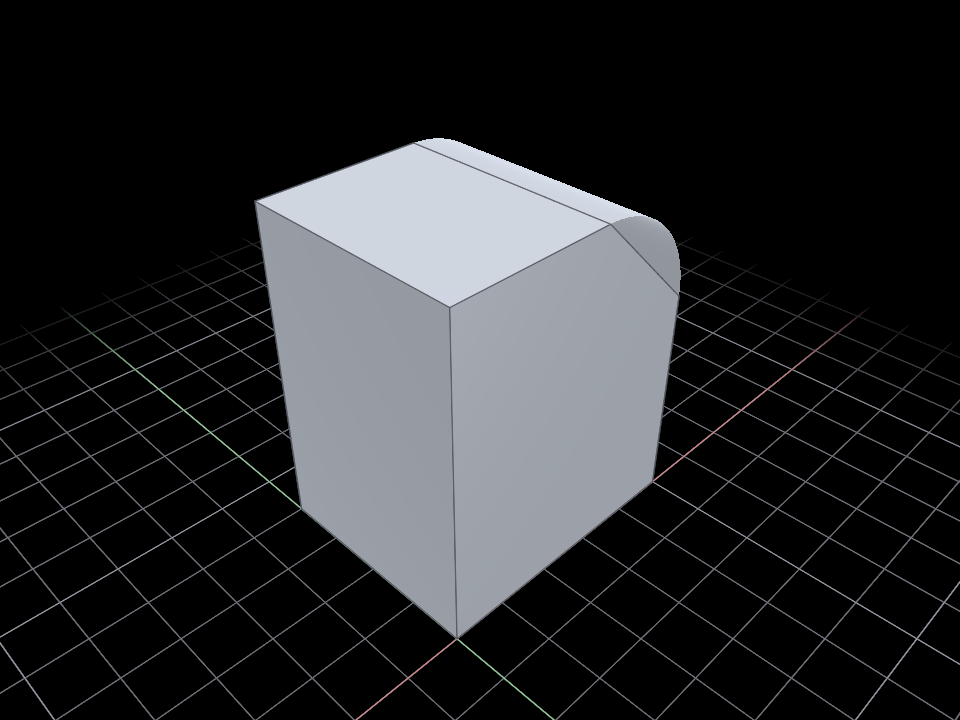
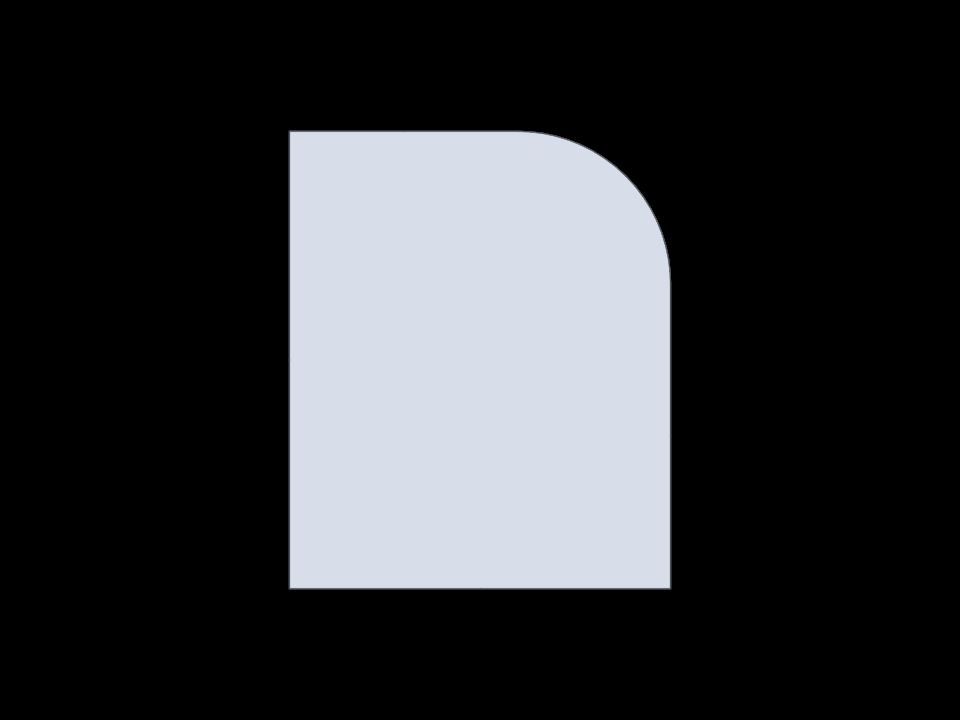
Keep Z-up box fillets circular at their end caps
Route a single orthogonal-prism edge through an exact rounded cross-section extrusion instead of the generic chord-capped fallback. Add the SourceCAD exercise as a reproducible sample, verify both R2 end boundaries and closed-form volume, and regenerate front/Z-up and isometric proofs.

diff --git a/Frontier/Editor/AuthoringTools/Modelling/SolidArc/Kernel/BlendSolver.cpp b/Frontier/Editor/AuthoringTools/Modelling/SolidArc/Kernel/BlendSolver.cpp
@@ -5416,6 +5416,76 @@ Deliver<BrepBody> BlendSolver::ChamferEdges(const BrepBody& Body, const std::vec
         "no common planar cutter produced a closed solid without self-intersection");
 }
 
+// A rectangular prism's single straight edge has an exact, simpler construction than the generic trimmed-face route:
+// round one corner of its rectangular cross-section, then extrude that closed NURBS profile along the selected edge.
+// This keeps +Z genuinely vertical in a front view—the two end-cap boundaries are circular arcs, not the straight
+// chords previously left by the conservative fallback.
+static std::optional<Deliver<BrepBody>> FilletOrthogonalPrismEdge(const BrepBody& Body, int Edge,
+                                                                  const EdgeCornerFrame& F, double Radius) noexcept
+{
+    const BodyReport Report = Body.Validate();
+    if (!Report.Solid() || Report.Genus != 0 || Body.Vertices.size() != 8 || Body.Edges.size() != 12 ||
+        Body.Faces.size() != 6 || Edge < 0 || Edge >= static_cast<int>(Body.Edges.size())) return std::nullopt;
+    for (const BrepEdge& Candidate : Body.Edges)
+        if (Candidate.Curve.Degree != 1 || Candidate.Curve.Curvature(
+            0.5 * (Candidate.Curve.DomainStart() + Candidate.Curve.DomainEnd())) > ScalarCriteria::CircularTolerance)
+            return std::nullopt;
+
+    double WidthA = 0.0, WidthB = 0.0;
+    const double PositionTolerance = ScalarCriteria::ScaledPositionTolerance * std::max(1.0, Body.Bounds().Diagonal());
+    for (const BrepVertex& Vertex : Body.Vertices)
+    {
+        const Vec3 Relative = Vertex.Point - F.Start;
+        const double A = Relative.Dot(F.InA), B = Relative.Dot(F.InB), Along = Relative.Dot(F.Tangent);
+        WidthA = std::max(WidthA, A); WidthB = std::max(WidthB, B);
+        if (A < -PositionTolerance || B < -PositionTolerance || Along < -PositionTolerance ||
+            Along > F.Length + PositionTolerance) return std::nullopt;
+    }
+    if (WidthA <= Tol || WidthB <= Tol) return std::nullopt;
+    // Every source vertex must occupy one corner of this local rectangular-prism coordinate frame.
+    for (const BrepVertex& Vertex : Body.Vertices)
+    {
+        const Vec3 Relative = Vertex.Point - F.Start;
+        const double Coordinates[3] = { Relative.Dot(F.InA), Relative.Dot(F.InB), Relative.Dot(F.Tangent) };
+        const double Extents[3] = { WidthA, WidthB, F.Length };
+        for (int Axis = 0; Axis < 3; ++Axis)
+            if (std::min(std::fabs(Coordinates[Axis]), std::fabs(Coordinates[Axis] - Extents[Axis])) > PositionTolerance)
+                return std::nullopt;
+    }
+
+    const double SetBack = BlendSolver::TangentSetBack(F, Radius);
+    if (SetBack >= std::min(WidthA, WidthB) - Tol)
+        return Deliver<BrepBody>::Reject(RefusalReason::DegenerateInput,
+            "fillet radius consumes an orthogonal-prism support");
+    auto Point = [&](double A, double B) noexcept { return F.Start + F.InA * A + F.InB * B; };
+    const Vec3 TangentA = Point(SetBack, 0.0), FarA = Point(WidthA, 0.0);
+    const Vec3 Opposite = Point(WidthA, WidthB);
+    const Vec3 FarB = Point(0.0, WidthB), TangentB = Point(0.0, SetBack);
+    const Vec3 Centre = F.Start - F.Bisector * (Radius / std::sin(F.Dihedral * 0.5));
+    const Vec3 ArcMiddle = Centre + F.Bisector * Radius;
+
+    Deliver<NurbsCurve> Profile = NurbsCurve::Line(TangentA, FarA);
+    const Deliver<NurbsCurve> Pieces[] =
+    {
+        NurbsCurve::Line(FarA, Opposite), NurbsCurve::Line(Opposite, FarB),
+        NurbsCurve::Line(FarB, TangentB), NurbsCurve::ArcThreePoints(TangentB, ArcMiddle, TangentA)
+    };
+    for (const Deliver<NurbsCurve>& Piece : Pieces)
+    {
+        if (!Profile || !Piece) return Deliver<BrepBody>::Reject(RefusalReason::DegenerateInput,
+            "orthogonal-prism fillet profile is degenerate");
+        Profile = NurbsCurve::Join(Profile.Payload, Piece.Payload);
+    }
+    if (!Profile) return Deliver<BrepBody>::Reject(Profile.Denial.Reason, Profile.Denial.Detail);
+    Deliver<BrepBody> Result = BrepBody::Extrude(Profile.Payload, F.Tangent, F.Length);
+    if (!Result) return Result;
+    const BodyReport Rounded = Result.Payload.Validate();
+    if (!Rounded.Solid() || Rounded.Genus != 0)
+        return Deliver<BrepBody>::Reject(RefusalReason::NonManifold,
+            "orthogonal-prism fillet did not produce one closed solid");
+    return Result;
+}
+
 Deliver<BrepBody> BlendSolver::FilletEdge(const BrepBody& Body, int Edge, double Radius) noexcept
 {
     if (std::optional<CylinderCap> Cap = NativeCylinderCap(Body, Edge)) return FilletCylinderCap(*Cap, Radius);
@@ -5597,6 +5667,20 @@ Deliver<BrepBody> BlendSolver::FilletEdges(const BrepBody& Body, const std::vect
                 return Deliver<BrepBody>::Reject(RefusalReason::Unsupported, "multi-edge fillet seeds overlap inconsistent tangent chains");
         }
         if (!Duplicate) Targets.push_back({ Effective, EdgeSignature(Body, Effective.front()) });
+    }
+
+    // A single edge on an orthogonal prism gets an exact rounded cross-section. Keep this at the transaction level:
+    // sequential multi-edge rolls rely on stable edge signatures and deliberately retain the general composition path.
+    if (Targets.size() == 1 && Targets.front().Chain.size() == 1)
+    {
+        EdgeCornerFrame Frame;
+        const int Selected = Targets.front().Chain.front();
+        if (!CornerFrameRefusal(Body, Selected, Frame))
+            if (std::optional<Deliver<BrepBody>> Prism = FilletOrthogonalPrismEdge(Body, Selected, Frame, Radius))
+            {
+                if (*Prism && AppliedChains) *AppliedChains = 1;
+                return std::move(*Prism);
+            }
     }
 
     // Four mutually parallel edges form a complete cross-section family. Rebuild them together as one exact rounded

diff --git a/Frontier/Editor/AuthoringTools/Modelling/SolidArc/Verification/MultiEdgeFilletVerification.cpp b/Frontier/Editor/AuthoringTools/Modelling/SolidArc/Verification/MultiEdgeFilletVerification.cpp
@@ -120,6 +120,30 @@ int main()
     bool FrontOkay = BlendSolver::Frame(Box, 0, FrontFrame, Why);
     bool BackOkay = BlendSolver::Frame(Box, 2, BackFrame, Why);
 
+    Panel.Section("Exact single-edge orthogonal-prism route");
+    Deliver<BrepBody> ExerciseBox = BrepBody::Box({ 0, 0, 0 }, { 5, 4, 6 });
+    EdgeCornerFrame ExerciseFrame; std::string ExerciseWhy;
+    const bool ExerciseFrameOkay = BlendSolver::Frame(ExerciseBox.Payload, 5, ExerciseFrame, ExerciseWhy);
+    int AppliedExercise = -1;
+    Deliver<BrepBody> ExerciseRoll = ExerciseFrameOkay
+        ? BlendSolver::FilletEdges(ExerciseBox.Payload, { 5 }, 2.0, &AppliedExercise)
+        : Deliver<BrepBody>::Reject(RefusalReason::Unsupported, ExerciseWhy.c_str());
+    int CurvedEndCaps = 0;
+    if (ExerciseRoll)
+        for (const BrepEdge& Edge : ExerciseRoll.Payload.Edges)
+        {
+            const double Middle = 0.5 * (Edge.Curve.DomainStart() + Edge.Curve.DomainEnd());
+            if (std::fabs(Edge.Curve.Curvature(Middle) - 0.5) < 1e-8) ++CurvedEndCaps;
+        }
+    const double ExerciseVolume = ExerciseFrameOkay
+        ? ExerciseBox.Payload.Validate().Volume - BlendSolver::FilletRemoval(ExerciseFrame, 2.0) : 0.0;
+    Panel.Expect("One box edge commits one closed Z-up rounded prism",
+                 ExerciseRoll && ExerciseRoll.Payload.Validate().Solid() && AppliedExercise == 1);
+    Panel.Expect("Both depth ends retain the R2 circular boundary instead of a diagonal chord", CurvedEndCaps == 2);
+    Panel.Within("The exact rounded prism follows the rolling-ball volume",
+                 ExerciseRoll ? std::fabs(ExerciseRoll.Payload.Validate().Volume - ExerciseVolume)
+                              : ScalarCriteria::Infinity, 0.01);
+
     Panel.Section("Independent seed-set composition");
     Panel.Expect("The source box is a one-hull V8/E12/F6 solid",
                  BoxResult && OriginalReport.Solid() && OriginalReport.Hulls == 1 &&
